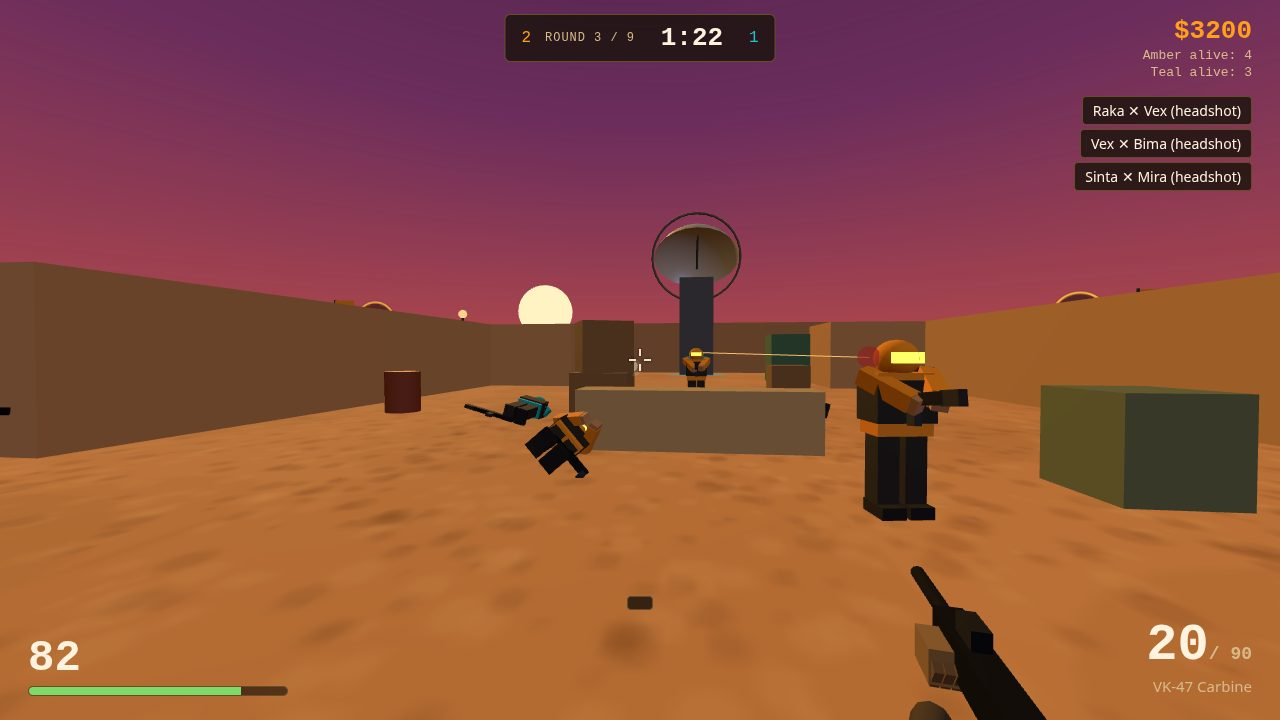
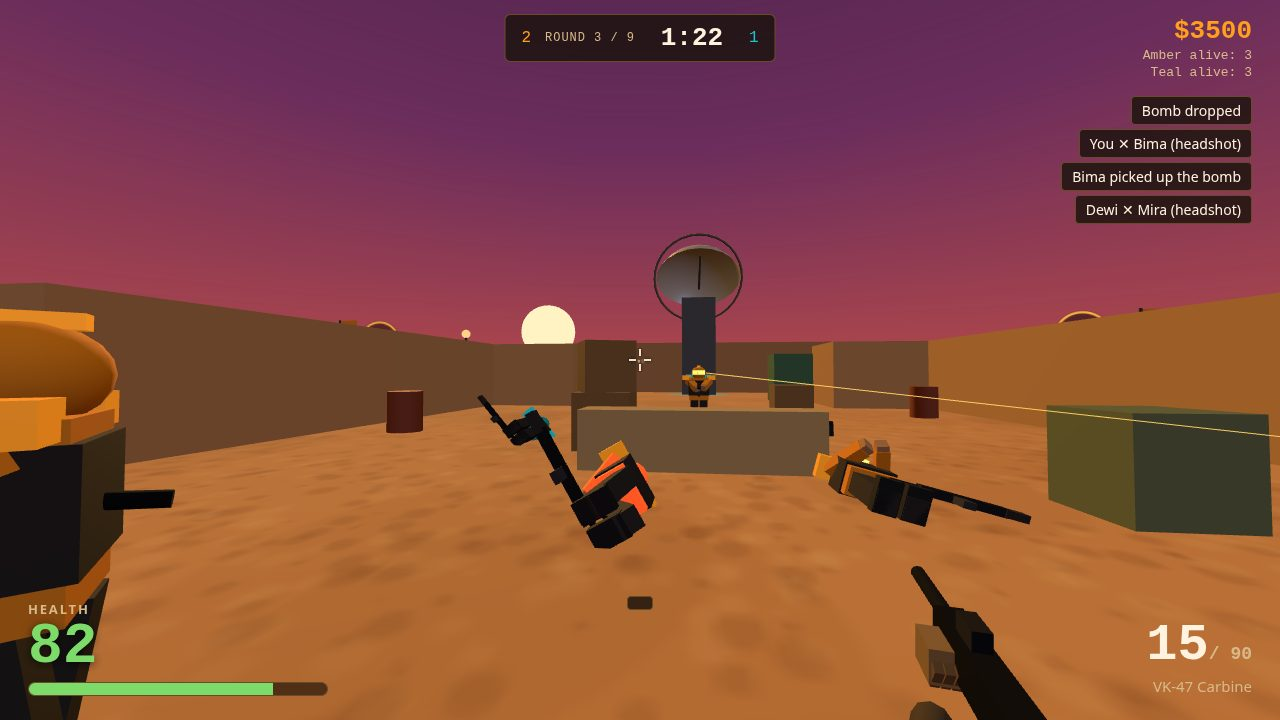
Fix spectate camera near walls + owner feedback: decisive TTK, player death feedback, reload indicator, prominent health, better soldier model, smoother movement
- Spectate: clamp the aim point strictly before the first wall (85% of the
  ray hit, halfway when the wall is very close) so the chase camera never
  falls back to the eye position and hides the teammate behind a blank wall.
- TTK: bot HP 100 -> 80, rifle 34 -> 40 dmg, smg 22 -> 25, pistol 26 -> 30;
  rifle now kills in 2 body shots / 1 headshot. Enemy flashes red on hit.
- Player death: bots slightly more accurate (aim error 0.02-0.07 -> 0.015-0.05);
  player hits trigger a red damage vignette + hurt sound (throttled).
- Reload: big RELOADING indicator in the HUD, impossible to miss.
- Health: HEALTH label + 58px number that changes colour (green/yellow/red)
  + thicker bar, visible in every state.
- Soldier model: bigger/brighter visor, shoulder pads, helmet crest, taller
  torso; team colours read stronger at small size.
- Movement: friction 11 -> 6 (glides to a stop instead of halting), accel
  42 -> 36, stronger viewmodel bob.

diff --git a/game/src/soldier.js b/game/src/soldier.js
@@ -34,33 +34,51 @@ export class SoldierModel {
     this.group.add(bootL, bootR);
 
     // torso + vest
-    this.torso = new THREE.Mesh(new THREE.BoxGeometry(0.56, 0.62, 0.34), cloth);
-    this.torso.position.y = 1.11;
+    this.torso = new THREE.Mesh(new THREE.BoxGeometry(0.56, 0.66, 0.34), cloth);
+    this.torso.position.y = 1.13;
     this.group.add(this.torso);
-    const vest = new THREE.Mesh(new THREE.BoxGeometry(0.6, 0.42, 0.4), dark);
-    vest.position.y = 1.14;
+    const vest = new THREE.Mesh(new THREE.BoxGeometry(0.6, 0.44, 0.4), dark);
+    vest.position.y = 1.16;
     this.group.add(vest);
     // bright team stripe across the chest so the team reads at any distance
     const stripe = new THREE.Mesh(
       new THREE.BoxGeometry(0.58, 0.12, 0.36),
       new THREE.MeshStandardMaterial({ color: team.color, emissive: team.color, emissiveIntensity: 0.55, roughness: 0.6 }),
     );
-    stripe.position.y = 1.26;
+    stripe.position.y = 1.28;
     this.group.add(stripe);
+    // shoulder pads in the team colour — big, bright, read at any distance
+    const padGeo = new THREE.BoxGeometry(0.24, 0.14, 0.3);
+    const padMat = new THREE.MeshStandardMaterial({ color: team.color, emissive: team.color, emissiveIntensity: 0.35, roughness: 0.6 });
+    const padL = new THREE.Mesh(padGeo, padMat);
+    padL.position.set(-0.36, 1.46, 0);
+    const padR = new THREE.Mesh(padGeo, padMat);
+    padR.position.set(0.36, 1.46, 0);
+    this.group.add(padL, padR);
 
     // head: helmet + bright visor
     this.head = new THREE.Group();
-    this.head.position.y = 1.56;
+    this.head.position.y = 1.6;
     const helmet = new THREE.Mesh(new THREE.SphereGeometry(0.21, 14, 10), std(team.color));
     helmet.scale.set(1, 0.9, 1.05);
     this.head.add(helmet);
+    // helmet crest in the team colour, so the head reads from behind too
+    const crest = new THREE.Mesh(
+      new THREE.BoxGeometry(0.1, 0.06, 0.3),
+      new THREE.MeshStandardMaterial({ color: team.color, emissive: team.color, emissiveIntensity: 0.5, roughness: 0.6 }),
+    );
+    crest.position.set(0, 0.19, 0);
+    this.head.add(crest);
     const visor = new THREE.Mesh(
-      new THREE.BoxGeometry(0.3, 0.11, 0.06),
-      new THREE.MeshStandardMaterial({ color: team.visor, emissive: team.visor, emissiveIntensity: 1.6, roughness: 0.2 }),
+      new THREE.BoxGeometry(0.36, 0.13, 0.06),
+      new THREE.MeshStandardMaterial({ color: team.visor, emissive: team.visor, emissiveIntensity: 2.2, roughness: 0.2 }),
     );
     visor.position.set(0, 0.01, 0.19);
     this.head.add(visor);
     this.group.add(this.head);
+    // materials that flash red when this soldier is hit
+    this.flashMats = [this.torso.material, helmet.material];
+    this.flashT = 0;
 
     // arms holding the rifle with both hands
     this.armL = new THREE.Group();
@@ -113,6 +131,13 @@ export class SoldierModel {
   pose(x, z, yaw, moving, dt) {
     this.group.position.set(x, 0, z);
     this.group.rotation.y = yaw;
+    // hit flash: torso + helmet glow red briefly, then fade back
+    if (this.flashT > 0) {
+      this.flashT -= dt;
+      const k = Math.max(0, this.flashT / 0.14);
+      for (const m of this.flashMats) { m.emissive.setHex(0xff2a18); m.emissiveIntensity = k * 1.4; }
+      if (this.flashT <= 0) for (const m of this.flashMats) { m.emissive.setHex(0x000000); m.emissiveIntensity = 1; }
+    }
     if (moving > 0.05) {
       this.walkPhase += dt * 9 * moving;
       const swing = Math.sin(this.walkPhase) * 0.55 * moving;
@@ -124,6 +149,11 @@ export class SoldierModel {
       this.legR.rotation.x *= 0.8;
       this.group.position.y = 0;
     }
+  }
+
+  flashHit() {
+    this.flashT = 0.14;
+    for (const m of this.flashMats) { m.emissive.setHex(0xff2a18); m.emissiveIntensity = 1.4; }
   }
 
   setDead() {
@@ -294,9 +324,9 @@ export class ViewModel {
     // recoil recovery: the kick offsets decay, the base pose never moves
     this.kickZ *= 0.82;
     this.kickRot *= 0.82;
-    const bob = moving > 0.05 ? Math.sin(bobPhase * 2) * 0.008 : 0;
+    const bob = moving > 0.05 ? Math.sin(bobPhase * 2) * 0.014 : 0;
     this.group.position.set(
-      this.basePos.x + (moving > 0.05 ? Math.cos(bobPhase) * 0.004 : 0),
+      this.basePos.x + (moving > 0.05 ? Math.cos(bobPhase) * 0.007 : 0),
       this.basePos.y + bob - this.reloadDipAmount * 0.12,
       this.basePos.z + this.kickZ,
     );

diff --git a/game/index.html b/game/index.html
@@ -50,11 +50,17 @@
   #score-teal { color: var(--accent2); }
 
   /* bottom left: health */
-  #health-box { position: fixed; left: 28px; bottom: 24px; width: 260px; }
-  #health-num { font-family: var(--font-readout); font-size: 44px; line-height: 1; font-weight: 700; }
+  #health-box { position: fixed; left: 28px; bottom: 24px; width: 300px; }
+  #health-label { font-size: 13px; font-weight: 700; letter-spacing: .14em; color: var(--muted); }
+  #health-num { font-family: var(--font-readout); font-size: 58px; line-height: 1; font-weight: 700; text-shadow: 0 2px 10px rgba(0,0,0,.7); }
   #armor-num { font-size: 13px; color: var(--muted); margin-left: 8px; }
-  #health-track { height: 10px; background: rgba(0,0,0,.55); border: 1px solid var(--hairline); border-radius: 5px; margin-top: 6px; overflow: hidden; }
+  #health-track { height: 14px; background: rgba(0,0,0,.55); border: 1px solid var(--hairline); border-radius: 7px; margin-top: 6px; overflow: hidden; }
   #health-bar { height: 100%; width: 100%; background: var(--good); transition: width 150ms linear; }
+
+  /* damage vignette: red flash at the screen edges when the player is hit */
+  #damage-vignette { position: fixed; inset: 0; pointer-events: none; opacity: 0; background: radial-gradient(ellipse at center, transparent 42%, rgba(255, 30, 10, 0.55) 100%); transition: opacity 350ms linear; }
+  /* reload indicator: big, impossible to miss */
+  #reload-indicator { position: fixed; left: 50%; top: 62%; transform: translateX(-50%); font-family: var(--font-readout); font-size: 30px; font-weight: 800; letter-spacing: .12em; color: #ffd28a; text-shadow: 0 2px 12px rgba(0,0,0,.9); }
 
   /* bottom right: ammo + weapon */
   #ammo-box { position: fixed; right: 28px; bottom: 24px; text-align: right; }
@@ -142,9 +148,12 @@
     <span id="score-teal">0</span>
   </div>
   <div id="health-box">
+    <div id="health-label">HEALTH</div>
     <span id="health-num">100</span><span id="armor-num"></span>
     <div id="health-track"><div id="health-bar"></div></div>
   </div>
+  <div id="damage-vignette"></div>
+  <div id="reload-indicator" hidden></div>
   <div id="ammo-box">
     <div id="ammo"><span id="ammo-mag">12</span><span id="ammo-reserve">/ 48</span></div>
     <div id="weapon-name">P9 Sidearm</div>

diff --git a/game/src/hud.js b/game/src/hud.js
@@ -15,7 +15,8 @@ export class Hud {
       'crosshair', 'start-screen', 'pause-screen', 'death-screen', 'end-screen',
       'buy-menu', 'buy-items', 'buy-note', 'buy-money', 'spectate-label',
       'plant-bar', 'plant-fill', 'plant-label', 'end-title', 'end-sub',
-      'flash-overlay', 'lock-hint', 'round-skip'];
+      'flash-overlay', 'lock-hint', 'round-skip', 'damage-vignette',
+      'reload-indicator'];
     for (const id of ids) this.el[id] = doc.getElementById(id);
     this.lastMoney = -1;
     this.buyOpen = false;
@@ -109,6 +110,17 @@ export class Hud {
     setTimeout(() => { o.style.opacity = '0'; }, 900);
   }
 
+  // Red vignette flash when the player takes a hit — impossible to miss.
+  damageFlash() {
+    const o = this.el['damage-vignette'];
+    o.style.transition = 'none';
+    o.style.opacity = '1';
+    requestAnimationFrame(() => {
+      o.style.transition = 'opacity 350ms linear';
+      o.style.opacity = '0';
+    });
+  }
+
   hitmarker(head) {
     const h = this.el['hitmarker'];
     h.classList.add('on');
@@ -160,6 +172,7 @@ export class Hud {
   update(g, player) {
     const hp = Math.max(0, Math.ceil(player.hp));
     this.el['health-num'].textContent = String(hp);
+    this.el['health-num'].style.color = hp > 50 ? '#7ddb6a' : hp > 25 ? '#ffb347' : '#ff5a4d';
     this.el['health-bar'].style.width = `${hp}%`;
     this.el['health-bar'].style.background = hp > 50 ? '#7ddb6a' : hp > 25 ? '#ffb347' : '#ff5a4d';
     this.el['armor-num'].textContent = player.armor > 0 ? `Kevlar ${Math.ceil(player.armor)}` : '';
@@ -168,6 +181,9 @@ export class Hud {
     this.el['ammo-reserve'].textContent = `/ ${w.reserve}`;
     this.el['ammo-mag'].parentElement.classList.toggle('empty', w.mag === 0);
     this.el['weapon-name'].textContent = w.name + (w.reloading ? ' — RELOADING' : '');
+    // big reload indicator, impossible to miss
+    this.el['reload-indicator'].hidden = !w.reloading;
+    if (w.reloading) this.el['reload-indicator'].textContent = `RELOADING… ${w.name.toUpperCase()}`;
     this.el['timer'].textContent = g.phase === 'buy'
       ? `BUY ${Math.ceil(g.phaseTime)}s`
       : g.bomb.state === 'planted'

diff --git a/game/src/main.js b/game/src/main.js
@@ -120,9 +120,22 @@ const lastGoodCam = { x: 0, y: 2, z: 20 };
 function updateSpectateCamera(target, dt) {
   const eyeY = target.pos.y + MAP.eyeHeight;
   const fx = -Math.sin(target.yaw), fz = -Math.cos(target.yaw);
-  const aimX = target.pos.x + fx * 8;
-  const aimY = eyeY + Math.sin(target.pitch) * 8;
-  const aimZ = target.pos.z + fz * 8;
+  const fy = Math.sin(target.pitch);
+  // Clamp the aim point to just before the first wall the target faces, so
+  // the camera never falls back to the eye position (which hides the target
+  // and shows a blank wall) when the target faces a nearby wall. The aim
+  // must stay strictly on this side of the wall: 85% of the hit distance,
+  // and halfway when the wall is so close even that overshoots it.
+  let aimDist = 8;
+  const hit = world.rayHit(target.pos.x, eyeY, target.pos.z, fx, fy, fz, 8);
+  if (hit) {
+    aimDist = Math.min(8, hit.dist * 0.85);
+    aimDist = Math.max(0.15, aimDist);
+    if (aimDist >= hit.dist) aimDist = hit.dist * 0.5;
+  }
+  const aimX = target.pos.x + fx * aimDist;
+  const aimY = eyeY + fy * aimDist;
+  const aimZ = target.pos.z + fz * aimDist;
   const dists = [2.2, 1.5, 0.8, 0.3];
   let placed = false;
   for (const d of dists) {

diff --git a/game/src/config.js b/game/src/config.js
@@ -14,19 +14,19 @@ export const TEAMS = {
 export const WEAPONS = {
   pistol: {
     id: 'pistol', slot: 1, name: 'P9 Sidearm', price: 0, auto: false,
-    damage: 26, headMult: 2.0, fireInterval: 0.16, reloadTime: 1.1,
+    damage: 30, headMult: 2.0, fireInterval: 0.16, reloadTime: 1.1,
     magSize: 12, reserveMax: 48, spread: 0.006, moveSpread: 0.030,
     recoil: 0.010, range: 60, tracer: 0xffe14d, sound: 'pistol',
   },
   smg: {
     id: 'smg', slot: 2, name: 'Dune-9 SMG', price: 1500, auto: true,
-    damage: 22, headMult: 2.0, fireInterval: 0.085, reloadTime: 1.5,
+    damage: 25, headMult: 2.0, fireInterval: 0.085, reloadTime: 1.5,
     magSize: 32, reserveMax: 96, spread: 0.011, moveSpread: 0.034,
     recoil: 0.008, range: 55, tracer: 0xffc46b, sound: 'smg',
   },
   rifle: {
     id: 'rifle', slot: 3, name: 'VK-47 Carbine', price: 2700, auto: true,
-    damage: 34, headMult: 2.0, fireInterval: 0.11, reloadTime: 1.9,
+    damage: 40, headMult: 2.0, fireInterval: 0.11, reloadTime: 1.9,
     magSize: 30, reserveMax: 90, spread: 0.007, moveSpread: 0.032,
     recoil: 0.014, range: 70, tracer: 0xffd166, sound: 'rifle',
   },

diff --git a/game/src/game.js b/game/src/game.js
@@ -45,6 +45,7 @@ export class Game {
     this.beepTimer = 0;
     this.lastKiller = null;
     this._flashUntil = 0;
+    this._lastHurtAt = 0; // throttle the player-hurt sound/flash
     this._buildAgents();
   }
 
@@ -255,6 +256,15 @@ export class Game {
         if (shooter.isPlayer) {
           this.hud.hitmarker(hit.isHead);
           this.sfx.hit(hit.isHead);
+          // enemy flashes red when hit, so every landed shot reads
+          if (hit.agent.model) hit.agent.model.flashHit();
+        }
+        // the player was hit: red vignette + hurt sound, throttled so a
+        // burst does not spam it
+        if (hit.agent.isPlayer && this.simTime - this._lastHurtAt > 0.25) {
+          this._lastHurtAt = this.simTime;
+          this.hud.damageFlash();
+          this.sfx.hurt();
         }
         if (!hit.agent.alive) this.onKill(shooter, hit.agent, hit.isHead ? 'headshot' : 'shot');
       } else if (hit.kind === 'wall') {

diff --git a/game/src/bots.js b/game/src/bots.js
@@ -48,7 +48,7 @@ export class BotController {
     // resetting to it used to teleport every bot to the middle of the map.)
     this.spawnPos = { x: a.pos.x, z: a.pos.z };
     a.pos.y = 0;
-    a.hp = 100;
+    a.hp = 80;
     a.armor = 0;
     a.alive = true;
     a.crouching = false;
@@ -150,7 +150,7 @@ export class BotController {
       if (this.target !== enemy) {
         this.target = enemy;
         this.reactTimer = rand(REACT_MIN, REACT_MAX);
-        this.aimError = rand(0.02, 0.07);
+        this.aimError = rand(0.015, 0.05);
       }
       this.reactTimer -= dt;
       // face the target with a little error

diff --git a/game/src/player.js b/game/src/player.js
@@ -9,8 +9,8 @@ import { WeaponState, aimDirection, eyePosition } from './weapons.js';
 const WALK_SPEED = 5.4;
 const CROUCH_SPEED = 2.6;
 const AIR_CONTROL = 0.35;
-const ACCEL = 42;
-const FRICTION = 11;
+const ACCEL = 36;
+const FRICTION = 6;
 const JUMP_VELOCITY = 5.2;
 const GRAVITY = 14;
 
